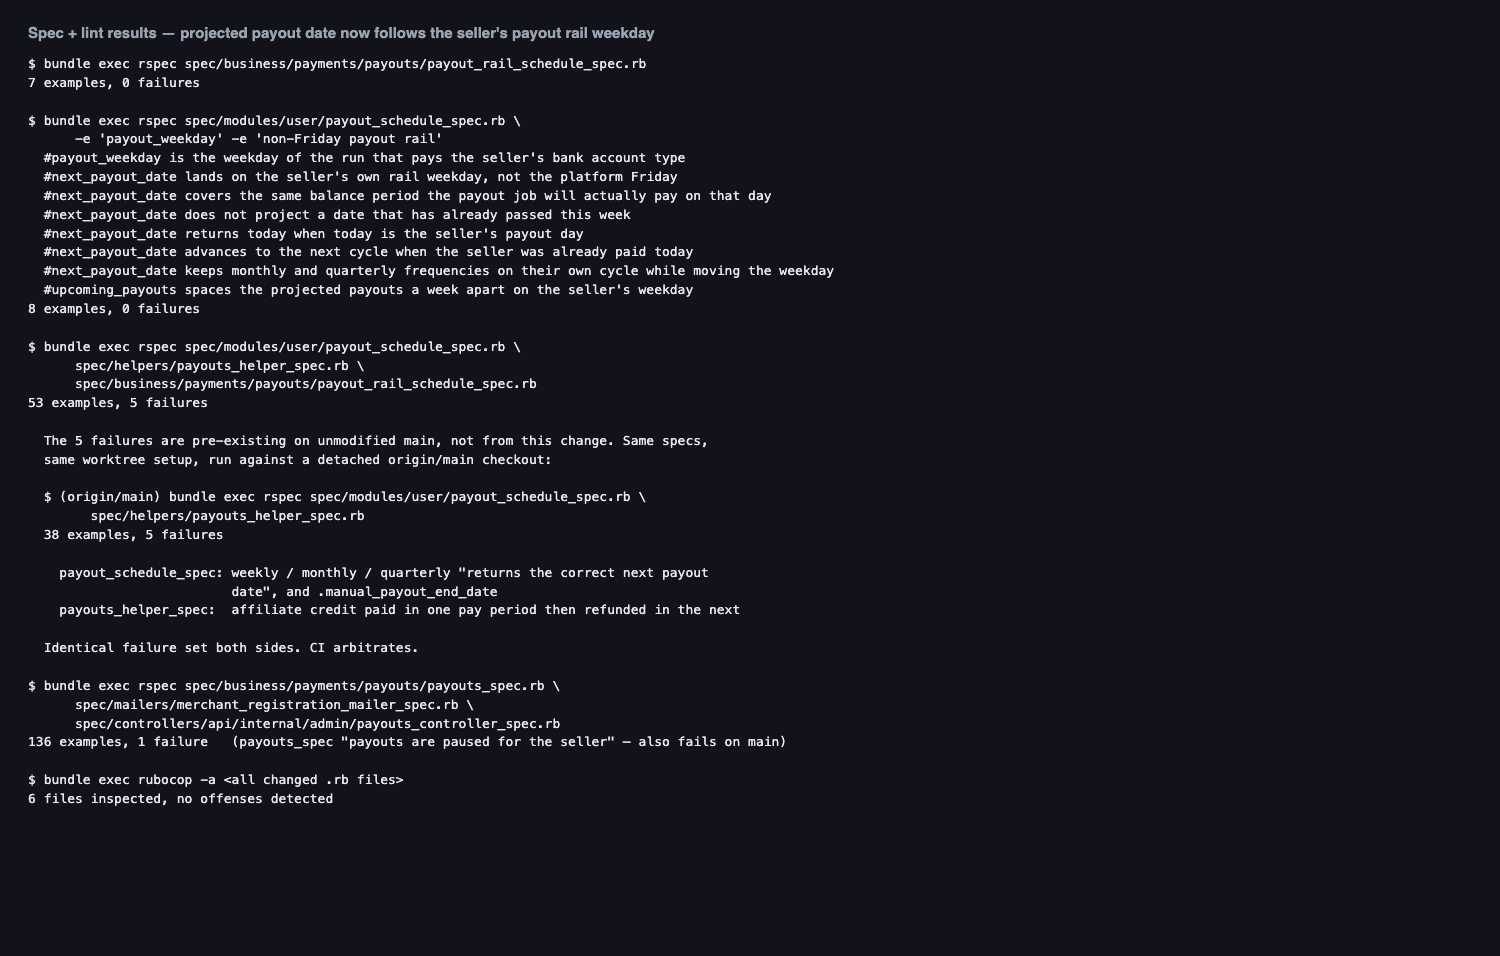
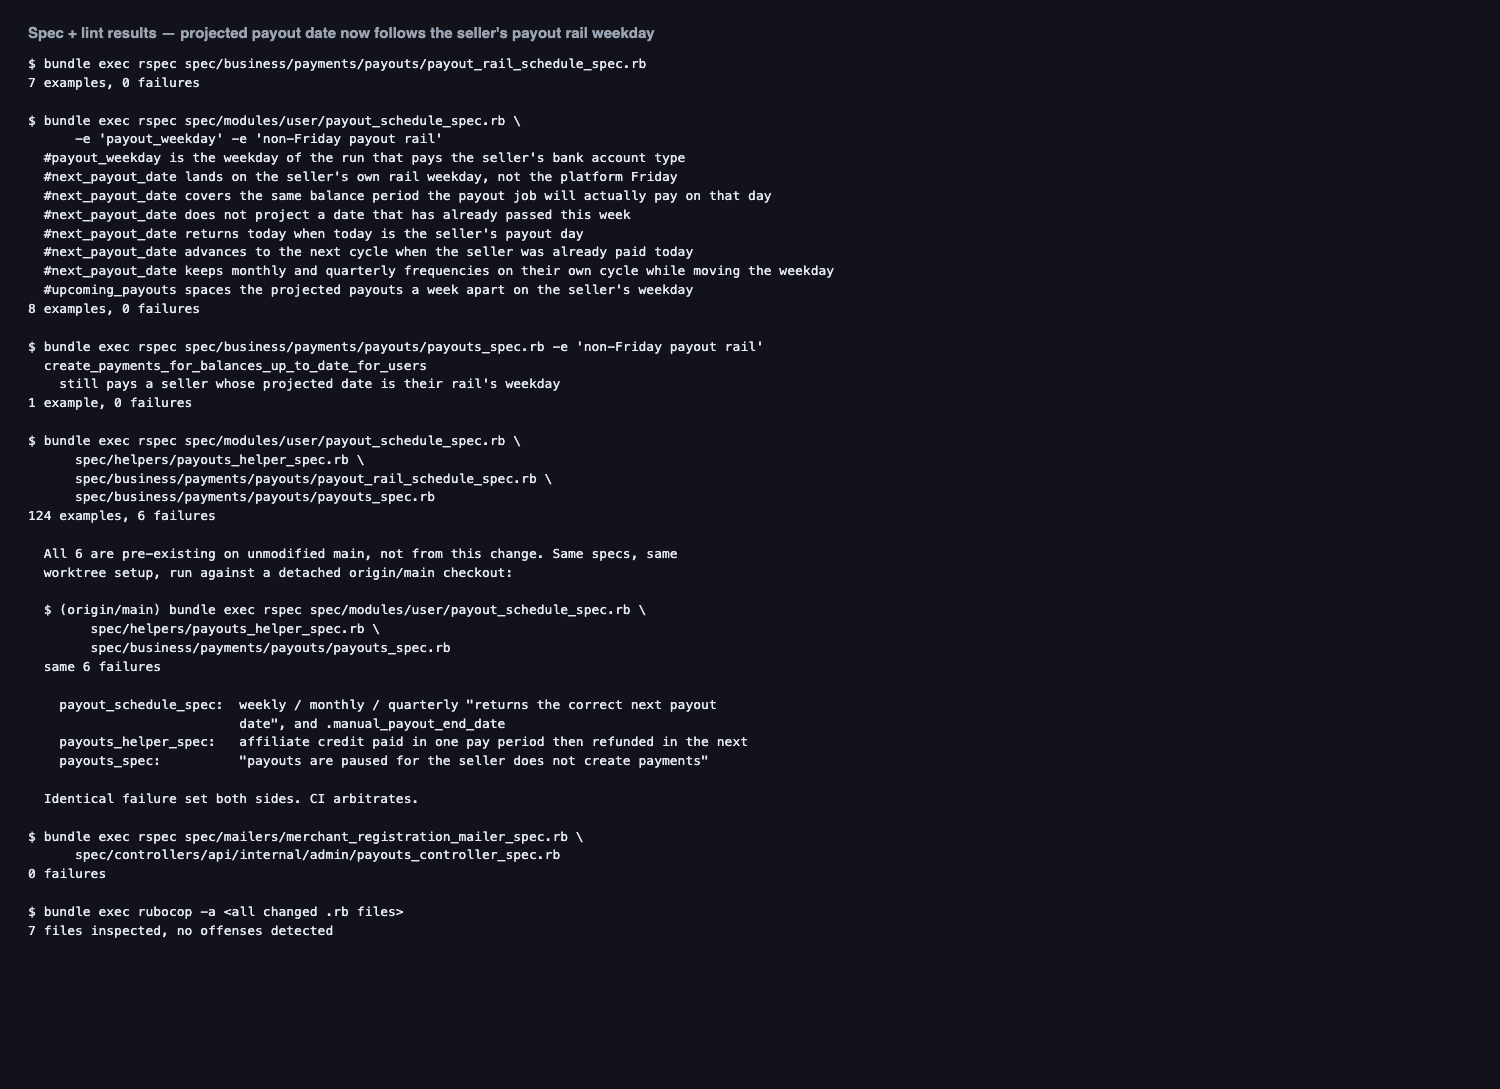
Track the payout cycle explicitly when projecting a run of payouts
upcoming_payouts advanced by converting each seller-facing date back into its
Friday cycle and stepping that. The round trip is unnecessary and wrong for a
daily seller, whose first projected date is tomorrow rather than a cycle date at
all, so carry the cycle alongside the date instead and step the cycle directly.

Also assert the fix from the payout job side: the per-user gate in
Payouts.create_payments_for_balances_up_to_date_for_users compares the batch
period against the seller own next_payout_date, so moving that date onto the
rail weekday must not make the job that pays them skip them.

Changed region(s): [[0.0, 0.0303, 0.552, 0.8797], [0.4293, 0.7584, 0.5213, 0.7887]]

diff --git a/spec/business/payments/payouts/payouts_spec.rb b/spec/business/payments/payouts/payouts_spec.rb
@@ -666,6 +666,28 @@ describe Payouts do
   end
 
   describe "create_payments_for_balances_up_to_date_for_users" do
+    context "when the seller is on a non-Friday payout rail" do
+      # The per-user gate in this method compares the batch's payout period against the seller's
+      # own next_payout_date. Moving that date onto the seller's rail weekday must not make the
+      # very job that pays them skip them, so assert the seller is still paid on their own day.
+      it "still pays a seller whose projected date is their rail's weekday" do
+        travel_to(Time.local(2026, 7, 28, 12)) do # Tuesday, the cross-border run's day
+          creator = create(:user_with_compliance_info)
+          create(:merchant_account, user: creator, charge_processor_merchant_id: "acct_railweekdaytest")
+          create(:philippines_bank_account, user: creator, stripe_bank_account_id: "ba_bankaccountid")
+          create(:balance, user: creator, amount_cents: 100_001, date: 20.days.ago)
+
+          expect(creator.next_payout_date).to eq Date.new(2026, 7, 28)
+
+          expect do
+            described_class.create_payments_for_balances_up_to_date_for_users(
+              User::PayoutSchedule.next_scheduled_payout_end_date, PayoutProcessorType::STRIPE, [creator]
+            )
+          end.to change { Payment.count }.by(1)
+        end
+      end
+    end
+
     context "when payouts are paused for the seller" do
       it "does not create payments" do
         creator = create(:user_with_compliance_info, payouts_paused_internally: true)

diff --git a/app/modules/user/payout_schedule.rb b/app/modules/user/payout_schedule.rb
@@ -66,6 +66,13 @@ module User::PayoutSchedule
 
   def upcoming_payouts
     upcoming_payout_date = next_payout_date
+    return [] if upcoming_payout_date.nil?
+
+    # Track the Friday cycle alongside the seller-facing date: the cycle is what advances a week
+    # (or a month, or a quarter) at a time, and the seller's date is that cycle converted to their
+    # rail's weekday. Deriving the next cycle back out of the seller's date instead would be wrong
+    # for a daily seller, whose first projected date is tomorrow rather than a cycle date at all.
+    payout_cycle_date = payout_cycle_for_payout_date(upcoming_payout_date)
     upcoming_payouts = []
 
     while upcoming_payout_date
@@ -91,7 +98,8 @@ module User::PayoutSchedule
 
       upcoming_payouts << upcoming_payout
 
-      upcoming_payout_date = payout_date_for_cycle(advance_payout_date(payout_cycle_for_payout_date(upcoming_payout_date)))
+      payout_cycle_date = advance_payout_date(payout_cycle_date)
+      upcoming_payout_date = payout_date_for_cycle(payout_cycle_date)
     end
 
     upcoming_payouts
